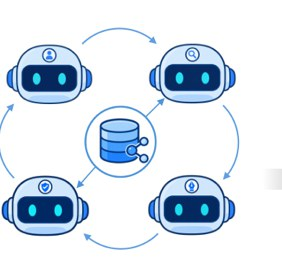
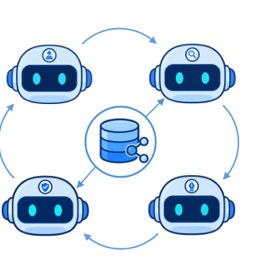
Research themes with a paper figure and their papers, on Home and the Research page
Each theme now pairs a figure from one of the lab's papers with its focus tags and the
papers behind it (latest 3 on Home, all key papers on /research/), the way MIT Vis,
Stanford SVL and Mahmood Lab present research. Funding shown as cards.

diff --git a/assets/css/site.css b/assets/css/site.css
@@ -99,22 +99,40 @@ main > section:first-child, main > .banner:first-child { margin-top: 24px; }
 .sec-head h2 { margin: 0; }
 .sec-head a { font-size: 15px; font-weight: 500; white-space: nowrap; }
 
-/* Research: three cards, each led by a figure from the lab's own papers */
-.directions { display: grid; grid-template-columns: repeat(3, minmax(0, 1fr)); gap: 20px; }
-.direction { display: flex; flex-direction: column; gap: 8px; padding-bottom: 22px; border: 1px solid var(--line); border-radius: var(--r); overflow: hidden; color: var(--text); background: var(--bg); transition: transform .18s ease, box-shadow .18s ease; }
-.direction.t-graph { --accent: var(--maroon); }
-.direction.t-spatial { --accent: var(--violet); }
-.direction.t-clinical { --accent: var(--blue); }
-.direction:hover { text-decoration: none; transform: translateY(-3px); box-shadow: var(--shadow); }
-.direction-fig { display: block; height: 188px; padding: 14px 18px; overflow: hidden; background: #fff; border-bottom: 1px solid var(--line); margin-bottom: 10px; }
-.direction-fig img { width: 100%; height: 100%; object-fit: contain; object-position: center; transition: transform .35s ease; }
-.direction:hover .direction-fig img { transform: scale(1.04); }
-.direction-num, .direction-title, .direction-blurb, .direction-tags { padding: 0 22px; }
-.direction-num { font-size: 12.5px; font-weight: 600; letter-spacing: .12em; color: var(--accent); }
-.direction-title { font-size: 19px; font-weight: 650; line-height: 1.3; margin-top: -4px; }
-.direction-blurb { font-size: 14.5px; line-height: 1.6; color: var(--soft); }
-.direction-tags { display: flex; flex-wrap: wrap; gap: 6px; margin-top: 4px; }
-.direction-tags span, .paper-tags span { font-size: 12.5px; line-height: 1.75; padding: 0 10px; border-radius: 999px; background: var(--tag-bg); color: var(--tag); }
+/* Research themes: a figure from the lab's papers beside the theme and its latest papers
+   (the way MIT Vis, Stanford SVL and Mahmood Lab present theirs) */
+.themes { display: grid; gap: 20px; }
+.theme-panel { --accent: var(--blue); --tint: #f2f6fb; display: grid; grid-template-columns: minmax(0, 5fr) minmax(0, 7fr); border: 1px solid var(--line); border-radius: var(--r); overflow: hidden; background: var(--bg); }
+.theme-panel.t-graph { --accent: var(--maroon); --tint: #fbf3f4; }
+.theme-panel.t-spatial { --accent: var(--violet); --tint: #f6f2fb; }
+.theme-panel.t-clinical { --accent: var(--blue); --tint: #f1f6fb; }
+[data-theme="dark"] .theme-panel { --tint: #22262b; }
+.theme-fig { display: grid; place-items: center; padding: 22px; background: var(--tint); border-right: 1px solid var(--line); }
+.theme-fig img { width: 100%; max-height: 230px; object-fit: contain; border-radius: 8px; background: #fff; padding: 10px; box-shadow: 0 1px 3px rgba(16, 24, 40, .06); }
+.theme-body { padding: 24px 28px; }
+.theme-body p { margin: 0; }
+.theme-num { font-size: 12.5px; font-weight: 600; letter-spacing: .12em; color: var(--accent); }
+.theme-title { font-size: 21px; font-weight: 650; margin: 4px 0 6px; letter-spacing: -.01em; }
+.theme-title a { color: var(--text); }
+.theme-title a:hover { color: var(--accent); text-decoration: none; }
+.theme-blurb { color: var(--soft); font-size: 15px; }
+.theme-tags { display: flex; flex-wrap: wrap; gap: 6px; margin-top: 12px !important; }
+.theme-tags span, .paper-tags span { font-size: 12.5px; line-height: 1.75; padding: 0 10px; border-radius: 999px; background: var(--tag-bg); color: var(--tag); }
+.theme-label { margin-top: 18px !important; font-size: 12px; font-weight: 600; letter-spacing: .1em; text-transform: uppercase; color: var(--muted); }
+.theme-papers { list-style: none; margin: 6px 0 0; padding: 0; }
+.theme-papers li { display: flex; flex-direction: column; padding: 8px 0 8px 14px; border-left: 2px solid var(--line); font-size: 14.5px; line-height: 1.45; }
+.theme-papers li:hover { border-left-color: var(--accent); }
+.theme-papers a { color: var(--text); font-weight: 500; }
+.theme-papers a:hover { color: var(--accent); text-decoration: none; }
+.theme-papers span { font-size: 13px; color: var(--muted); }
+.all-pubs { margin: 18px 0 0; font-weight: 500; }
+.themes.full { gap: 28px; margin-top: 28px; }
+.theme-panel.full { grid-template-columns: minmax(0, 1fr); }
+.theme-panel.full .theme-fig { border-right: 0; border-bottom: 1px solid var(--line); padding: 28px; }
+.theme-panel.full .theme-fig img { max-height: 340px; }
+.theme-panel.full .theme-body { padding: 26px 30px 28px; }
+.theme-panel.full .theme-papers { columns: 2; column-gap: 28px; }
+.theme-panel.full .theme-papers li { break-inside: avoid; }
 
 /* Papers: the paper's figure on the left, details on the right */
 .paper { display: grid; grid-template-columns: 300px minmax(0, 1fr); gap: 32px; align-items: center; padding: 22px 0; border-top: 1px solid var(--line); }
@@ -166,9 +184,13 @@ h2.year { font-size: 20px; color: var(--muted); font-weight: 600; margin-bottom:
 .theme { margin-top: 40px !important; }
 .theme ul { padding-left: 20px; color: var(--soft); }
 .theme li { margin-bottom: 4px; }
-.fund { padding: 14px 0; border-bottom: 1px solid var(--line); }
-.fund p { margin: 0 0 3px; }
-.fund .muted { font-size: 14px; }
+.funds { display: grid; grid-template-columns: repeat(2, minmax(0, 1fr)); gap: 16px; }
+.fund { padding: 18px 20px; border: 1px solid var(--line); border-radius: 12px; }
+.fund p { margin: 0 0 4px; }
+.fund-sponsor { font-size: 13px; font-weight: 600; letter-spacing: .04em; color: var(--muted); }
+.fund-award { font-weight: 600; }
+.fund-project { color: var(--soft); font-size: 15px; }
+.fund .muted { font-size: 13.5px; margin-top: 8px !important; }
 .badge { display: inline-block; font-size: 12px; font-weight: 600; color: #2b6850; background: #e6f3ec; border-radius: 999px; padding: 0 8px; vertical-align: 1px; }
 [data-theme="dark"] .badge { color: #9fd3b8; background: rgba(120, 200, 160, .14); }
 .callout { padding: 16px 20px; border-radius: var(--r); background: var(--panel); color: var(--soft); }
@@ -226,9 +248,8 @@ h2.year { font-size: 20px; color: var(--muted); font-weight: 600; margin-bottom:
   .nav { width: 100%; justify-content: space-between; }
   .nav ul { margin-left: -12px; }
   .about { grid-template-columns: 1fr; gap: 18px; }
-  .directions { gap: 14px; }
-  .direction-fig { height: 150px; }
-  .direction-num, .direction-title, .direction-blurb, .direction-tags { padding: 0 16px; }
+  .theme-panel { grid-template-columns: minmax(0, 1fr); }
+  .theme-fig { border-right: 0; border-bottom: 1px solid var(--line); }
   .paper { grid-template-columns: 240px minmax(0, 1fr); gap: 24px; }
 }
 @media (max-width: 680px) {
@@ -243,8 +264,11 @@ h2.year { font-size: 20px; color: var(--muted); font-weight: 600; margin-bottom:
   .banner img { aspect-ratio: 4 / 3; }
   .about-lead { font-size: 19px; }
   h2 { font-size: 22px; }
-  .directions { grid-template-columns: 1fr; }
-  .direction-fig { height: 150px; }
+  .theme-fig { padding: 16px; }
+  .theme-fig img { max-height: 190px; }
+  .theme-body, .theme-panel.full .theme-body { padding: 18px 18px 20px; }
+  .theme-panel.full .theme-papers { columns: 1; }
+  .funds { grid-template-columns: 1fr; }
   .paper { grid-template-columns: minmax(0, 1fr); gap: 12px; }
   .paper-fig { height: 170px; }
   .paper-fig:has(.paper-fig-empty) { display: none; }

diff --git a/index.html b/index.html
@@ -24,23 +24,10 @@ redirect_from:
 
 <section>
   <div class="sec-head"><h2>Research</h2><a href="{{ '/research/' | relative_url }}">Research and funding →</a></div>
-  <div class="directions">
-    {% for t in site.data.research.themes %}
-    <a class="direction t-{{ t.id }}" href="{{ '/research/#' | append: t.id | relative_url }}">
-      <span class="direction-fig"><img src="{{ t.image | relative_url }}" alt="" loading="lazy"></span>
-      <span class="direction-num">0{{ forloop.index }}</span>
-      <span class="direction-title">{{ t.short_title }}</span>
-      <span class="direction-blurb">{{ t.blurb }}</span>
-      <span class="direction-tags">{% for i in t.home %}<span>{{ i }}</span>{% endfor %}</span>
-    </a>
-    {% endfor %}
+  <div class="themes">
+    {% for t in site.data.research.themes %}{% include theme-panel.html t=t n=forloop.index %}{% endfor %}
   </div>
-</section>
-
-<section>
-  <div class="sec-head"><h2>Recent papers</h2><a href="{{ '/publications/' | relative_url }}">All publications →</a></div>
-  {% assign recent = site.data.publications | where_exp: "p", "p.year >= 2026" | where_exp: "p", "p.figure" %}
-  {% for p in recent limit: 4 %}{% include pub-row.html p=p %}{% endfor %}
+  <p class="all-pubs"><a href="{{ '/publications/' | relative_url }}">All publications, with figures →</a></p>
 </section>
 
 <section class="news-split" id="news">

diff --git a/research.html b/research.html
@@ -4,19 +4,22 @@ permalink: /research/
 redirect_from:
   - /funding/
 ---
-{% for t in site.data.research.themes %}
-<section class="theme" id="{{ t.id }}">
-  <h2>{{ t.title }}</h2>
-  <p>{{ t.blurb }}</p>
-  <ul>{% for i in t.items %}<li>{{ i }}</li>{% endfor %}</ul>
-</section>
-{% endfor %}
+<p class="page-lede">{{ site.tagline }}. Each direction below shows a figure from one of our papers and the papers behind it.</p>
 
-<h2 id="funding">Funding</h2>
-{% for f in site.data.funding %}
-<div class="fund">
-  <p class="fund-title"><strong>{{ f.sponsor }}</strong> · {{ f.award }}{% if f.active %} <span class="badge">Active</span>{% endif %}</p>
-  <p>{{ f.project }}</p>
-  <p class="muted">{{ f.role }} · {{ f.period }}</p>
+<div class="themes full">
+  {% for t in site.data.research.themes %}{% include theme-panel.html t=t n=forloop.index full=true %}{% endfor %}
 </div>
-{% endfor %}
+
+<section id="funding">
+  <h2>Funding</h2>
+  <div class="funds">
+    {% for f in site.data.funding %}
+    <div class="fund">
+      <p class="fund-sponsor">{{ f.sponsor }}{% if f.active %} <span class="badge">Active</span>{% endif %}</p>
+      <p class="fund-award">{{ f.award }}</p>
+      <p class="fund-project">{{ f.project }}</p>
+      <p class="muted">{{ f.role }} · {{ f.period }}</p>
+    </div>
+    {% endfor %}
+  </div>
+</section>

diff --git a/_includes/theme-panel.html b/_includes/theme-panel.html
@@ -1,0 +1,18 @@
+{% assign t = include.t %}
+{% assign papers = site.data.publications | where: "theme", t.id %}
+{% if include.full %}{% assign lim = 20 %}{% assign img = t.figure %}{% assign name = t.title %}{% else %}{% assign lim = 3 %}{% assign img = t.image %}{% assign name = t.short_title %}{% endif %}
+<article class="theme-panel t-{{ t.id }}{% if include.full %} full{% endif %}" id="{{ t.id }}">
+  <div class="theme-fig"><img src="{{ img | relative_url }}" alt="" loading="lazy"></div>
+  <div class="theme-body">
+    <p class="theme-num">0{{ include.n }}</p>
+    <h3 class="theme-title">{% if include.full %}{{ name }}{% else %}<a href="{{ '/research/#' | append: t.id | relative_url }}">{{ name }}</a>{% endif %}</h3>
+    <p class="theme-blurb">{{ t.blurb }}</p>
+    <p class="theme-tags">{% if include.full %}{% for i in t.items %}<span>{{ i }}</span>{% endfor %}{% else %}{% for i in t.home %}<span>{{ i }}</span>{% endfor %}{% endif %}</p>
+    <p class="theme-label">{% if include.full %}Key papers{% else %}Latest papers{% endif %}</p>
+    <ul class="theme-papers">
+      {% for p in papers limit: lim %}{% assign link = p.links.Paper | default: p.links.first[1] %}
+      <li><a href="{{ link }}">{{ p.title }}</a><span>{{ p.venue }} {{ p.year }}</span></li>
+      {% endfor %}
+    </ul>
+  </div>
+</article>

diff --git a/README.md b/README.md
@@ -22,7 +22,7 @@ Almost everything lives in `_data/` — edit the YAML and push.
 | News (home shows the latest 6; "Show all news" opens the rest) | `_data/news.yml` |
 | Lab photos (banner on Home and People; `wide` is a 16:7 crop, `src` the 4:3 photo used on phones) | `_data/photos.yml`, images in `images/lab/` |
 | Publications (2026+ get `figure`, `figure_credit`, `tags`; figures in `images/papers/`) | `_data/publications.yml` |
-| Research themes (home cards use `short_title`, `home`, `image`) | `_data/research.yml` |
+| Research themes (`image` = close-up for Home, `figure` = full figure for the Research page; papers join a theme via `theme:` in publications.yml) | `_data/research.yml` |
 | Members & alumni | `_data/members.yml` (add `photo:` to replace initials) |
 | Funding (shown on Research; sponsors line on Home) | `_data/funding.yml` |
 | Talks & teaching | `talks.md` |
